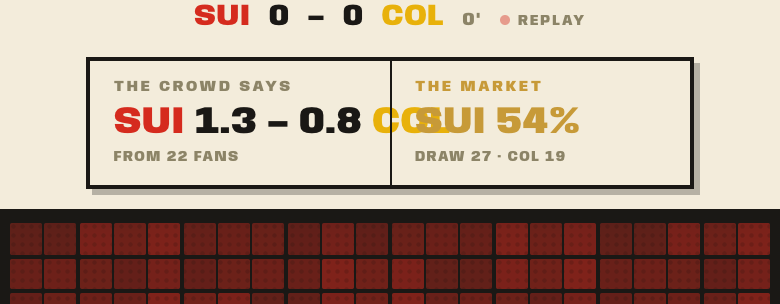
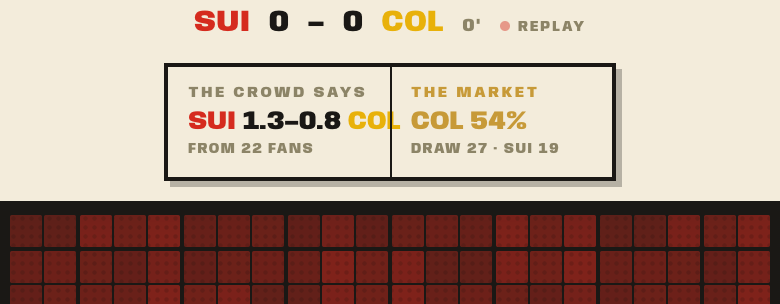
stadium: B built — the poster bleed + THE PROGRAM strip (owner pick, 14 Jul)
The bowl bleeds full-frame (scale 1.335 under the printed mast); the loose
territory numbers die (the pitch's own paint carries it, numbers in CONTROL);
the instruction bar dies; THE PROGRAM prints the seven doors along the foot —
incl. THE STANDS, giving the invisible bare-canvas door a visible handle.
Strip taps open the deck (proof: 26-*.png). Embed mode hides mast + program.
Dot treatments staged as sketches for the gate (25a punched / 25b pins /
25c ink-breath — names in the strip pending the owner's rename round).
Seam-box love variants also staged (23a plate / 23b ribbon).
Evidence: 24/25/26-*.png (console clean).

diff --git a/apps/web/public/stadium.html b/apps/web/public/stadium.html
@@ -31,10 +31,16 @@ html,body{height:100%;background:var(--ink);-webkit-font-smoothing:antialiased;o
 /* the real stadium fills the screen */
 .ground{position:absolute;inset:0;transition:transform .5s cubic-bezier(.6,0,.2,1),opacity .4s}
 .ground.dimmed{transform:scale(1.06);opacity:.25;filter:saturate(.6)}
-.stadwrap{position:absolute;top:48%;left:0;right:0;transform:translateY(-50%)}
+/* B — the poster bleed (owner pick, 14 Jul): the bowl fills the frame past both bands;
+   the mast + program strip print over it. Territory shows as the pitch's own paint;
+   its numbers live in the CONTROL card, not loose on the grass. */
+.stadwrap{position:absolute;top:50%;left:0;right:0;transform:translateY(-50%) scale(1.335)}
 .stadwrap .stad{width:100%;display:block}
-.pnum{position:absolute;transform:translate(-50%,-50%);font-weight:900;color:var(--card);z-index:2;text-shadow:0 1px 5px rgba(26,24,21,.65),0 0 2px rgba(26,24,21,.55)}
-.pnum.a{left:49.8%;top:38%;font-size:25px}.pnum.h{left:49.8%;top:63%;font-size:25px}
+/* THE PROGRAM — the page's doors in one printed strip along the foot */
+.program{position:absolute;left:0;right:0;bottom:0;z-index:9;display:flex;border-top:1.5px solid var(--ink);background:var(--paper)}
+.program button{flex:1;min-width:0;padding:12px 2px 13px;background:none;border:none;border-left:1px solid var(--line);font-family:var(--disp);font-weight:800;font-size:6.6px;letter-spacing:.08em;color:var(--ink);cursor:pointer;white-space:nowrap;-webkit-tap-highlight-color:transparent}
+.program button:first-child{border-left:none}
+.program button:active{background:var(--ink);color:var(--paper)}
 .board{position:absolute;left:49.4%;top:13.9%;transform:translate(-50%,-50%);z-index:3;pointer-events:none;text-align:center;color:#F3ECDB;text-shadow:0 1px 2px #000;line-height:1}   /* centred on the art's black rect (x 41.8–56.9%, y 10.9–16.9%) — the numbers sit solidly on the black */
 .board .bsc{display:block;font-weight:900;font-size:14px;letter-spacing:.05em}
 .board .bmin{display:block;font-weight:700;font-size:7px;letter-spacing:.13em;color:#E8B10A;margin-top:2px}
@@ -196,7 +202,6 @@ html,body{height:100%;background:var(--ink);-webkit-font-smoothing:antialiased;o
     <div class="stadwrap" id="stadwrap">
       <canvas class="stad" id="stadcanvas" width="760" height="1079"></canvas>
       <div class="board" id="board"><span class="bsc" id="bSc">0–0</span><span class="bmin" id="bMin"></span></div>
-      <div class="pnum a" id="pA">—</div><div class="pnum h" id="pH">—</div>
       <!-- dots + zones exactly as the owner placed them (spot-tool spec, 11 Jul) -->
       <div class="hot" data-place="goal" style="left:50.1%;top:23.4%;--d:17.5px" aria-label="the goal mouth"><span class="cap" id="capA">GOAL</span></div>
       <div class="hot" data-place="goal" style="left:50.5%;top:78.6%;--d:17.5px" aria-label="the goal mouth"><span class="cap" id="capH">GOAL</span></div>
@@ -214,7 +219,17 @@ html,body{height:100%;background:var(--ink);-webkit-font-smoothing:antialiased;o
     </div>
   </div>
 
-  <div class="tiphint" id="tip">TAP A GLOWING PLACE TO GO IN</div>
+  <!-- THE PROGRAM — every door on one printed line (owner pick, 14 Jul: B + the program).
+       Names pending the owner's rename round; THE STANDS gives the bare-canvas door a visible handle. -->
+  <div class="program" id="program">
+    <button data-place="stands">THE STANDS</button>
+    <button data-place="goal">GOAL-MOUTH</button>
+    <button data-place="arc">SET PIECES</button>
+    <button data-place="control">CONTROL</button>
+    <button data-place="book">THE BOOK</button>
+    <button data-place="bench">TEAM SHEET</button>
+    <button data-place="odds">THE MARKET</button>
+  </div>
   <div class="toast" id="toast"></div>
 
   <!-- DETAIL: THE GOAL-MOUTH -->
@@ -367,7 +382,7 @@ html,body{height:100%;background:var(--ink);-webkit-font-smoothing:antialiased;o
   }
 
   function boot(mid,fx){
-  if(q.get('embed')){document.body.classList.add('embed');var es=document.createElement('style');es.textContent='.mast{display:none!important}';document.head.appendChild(es);}  // framed inside the composite — the composite owns the masthead
+  if(q.get('embed')){document.body.classList.add('embed');var es=document.createElement('style');es.textContent='.mast{display:none!important}.program{display:none!important}';document.head.appendChild(es);}  // framed inside the composite — the composite owns the masthead + navigation
   function el(id){return document.getElementById(id);}
   function rgba(hex,a){return 'rgba('+parseInt(hex.slice(1,3),16)+','+parseInt(hex.slice(3,5),16)+','+parseInt(hex.slice(5,7),16)+','+a+')';}
   function skin(ink){var A={green:[30,122,68],red:[170,21,27],blue:[32,73,170]},c=[parseInt(ink.slice(1,3),16),parseInt(ink.slice(3,5),16),parseInt(ink.slice(5,7),16)],b='blue',bd=1e15;for(var k in A){var a=A[k],d=Math.pow(a[0]-c[0],2)+Math.pow(a[1]-c[1],2)+Math.pow(a[2]-c[2],2);if(d<bd){bd=d;b=k;}}return b;}
@@ -548,8 +563,7 @@ html,body{height:100%;background:var(--ink);-webkit-font-smoothing:antialiased;o
     var ap=100-hp;
     el('mHT').textContent=HOME.tri;el('mAT').textContent=AWAY.tri;
     el('mSt').textContent=live?'LIVE':'REPLAY';el('bMin').textContent=(s.minute!=null?s.minute+'′':'');
-    // possession numbers stay attributed to the team; the pitch places that control in the territory it infringes.
-    el('pA').textContent=(ap!=null?ap:'—');el('pH').textContent=(hp!=null?hp:'—');
+    // possession paints the pitch itself (canvas recolour below); its numbers live in the CONTROL card
     // scoreboard
     el('bSc').textContent=hg+'–'+ag;
     // the pitch itself becomes the two team colours (canvas recolour), split by infringement — home toward the away/top goal
@@ -623,7 +637,7 @@ html,body{height:100%;background:var(--ink);-webkit-font-smoothing:antialiased;o
     if(!sh){ toast((SOON[place]||place.toUpperCase())+' · NEXT'); return; }
     if(openSheet && openSheet!==sh){ openSheet.style.transformOrigin='50% 50%'; openSheet.classList.remove('open'); }
     sh.style.transformOrigin=origin||'50% 50%';
-    sh.classList.add('open'); el('ground').classList.add('dimmed'); el('tip').style.display='none';
+    sh.classList.add('open'); el('ground').classList.add('dimmed');
     openSheet=sh; syncNav(place);
   }
   function close(){ if(openSheet){openSheet.classList.remove('open');openSheet=null;} el('ground').classList.remove('dimmed'); el('cardnav').classList.remove('on'); }
@@ -640,6 +654,9 @@ html,body{height:100%;background:var(--ink);-webkit-font-smoothing:antialiased;o
   // the stands tap is the bare seating itself — anywhere the bowl shows through (owner, 11 Jul:
   // the glow is decoration across the bowl, never one huge element colliding with the spots)
   el('stadwrap').addEventListener('click',function(e){ if(e.target===el('stadcanvas'))open('stands','50% 50%'); });
+  document.querySelectorAll('.program button').forEach(function(b){
+    b.addEventListener('click',function(){ open(b.getAttribute('data-place'),'50% 96%'); });
+  });
   document.querySelectorAll('[data-close]').forEach(function(b){b.addEventListener('click',close);});
   el('cnPrev').addEventListener('click',function(){nav(-1);});
   el('cnNext').addEventListener('click',function(){nav(1);});

diff --git a/design/checkins/2026-07-14-design/INDEX.md b/design/checkins/2026-07-14-design/INDEX.md
@@ -17,3 +17,20 @@ Every shot: mobile 390×844 @2x (unless named desktop), console clean.
 
 Staged-state notes (honesty): 09/16 inject wire-shaped messages via the harness to
 photograph live-only states; 15a–c stage 1–1 34′ and are pixel surgery, not code.
+
+---
+
+# ROUND 2 — the tweak round (owner slip + notes, 14 Jul)
+
+| Shot | What it is | Status |
+|---|---|---|
+| `21-showcase-thesis-v2-desktop.png` | Thesis cut to the owner's line — "Predict, cheer, and collect." | built, committed |
+| `22-terrace-aggregate-xp-restored.png` | Aggregate score + XP back (hint-retire, sat-out fix, CALLS ledger kept) | built, committed |
+| `23a/23b` | Seam-box "love" variants: **L1 plate** (heavier two-cell pin) · **L2 ribbon** (full-width two-row ticker) | SKETCHES — pick one |
+| `24-stadium-B-built.png` | **B built for real**: bowl bleeds, no pitch numbers, no legend bar, THE PROGRAM strip (7 doors incl. THE STANDS) | built, committed |
+| `25a/25b/25c` | Dot treatments on B: **punched** (cream die-cut + ink ring, zones dashed) · **pins** (ink sticker + gold core) · **ink-breath** (quiet dark pulse) | SKETCHES — pick one |
+| `26-…program-opens-market.png` | Program strip tap opens the deck | proof |
+| `19/20-scarf-v2` | Scarf v2 (brand type in-asset + event-woven) | awaiting approval → wire |
+
+US English recorded as default. Name proposals live in the chat round (LINEUPS,
+SHOTS, THE WHISTLE, FIELD-for-PITCH…) — nothing renamed until the owner picks.